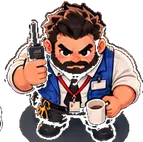
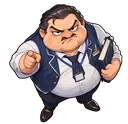
feat(art): replace commessa and caporeparto sprites; preserve director boss sprite

diff --git a/src/game/GameScene.ts b/src/game/GameScene.ts
@@ -134,7 +134,7 @@ export class GameScene extends Phaser.Scene {
     const base = import.meta.env.BASE_URL;
     this.load.image('veronica-art', base + 'veronica-topdown.webp');
     this.load.image('street-art', base + 'assets/street/street-v04.webp');
-    for (const kind of ['commesso', 'capo', 'cliente']) {
+    for (const kind of ['commesso', 'capo', 'cliente', 'direttore']) {
       this.load.image('enemy-' + kind, base + 'assets/enemies/' + kind + '.webp');
     }
     for (const kind of ['mitra', 'missile', 'lame', 'cura', 'scudo', 'caffe', 'munizioni']) {
@@ -585,7 +585,8 @@ export class GameScene extends Phaser.Scene {
     const y = HEIGHT / 2;
     const aura = this.add.circle(x, y, 91, 0x53336e, 0.23)
       .setStrokeStyle(4, 0xf6c85e, 0.9).setDepth(18);
-    const texture = this.textures.exists('enemy-capo') ? 'enemy-capo' : 'capo';
+    // Keep the original Director General art independent of the new caporeparto mob.
+    const texture = this.textures.exists('enemy-direttore') ? 'enemy-direttore' : 'capo';
     const sprite = this.add.image(x, y, texture).setDisplaySize(154, 154).setDepth(24);
     const maxHP = 1800 + this.level * 115;
     this.boss = {
